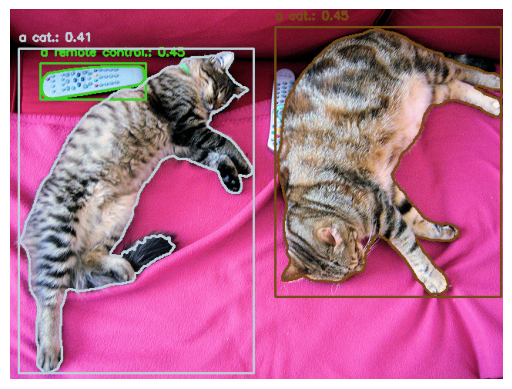
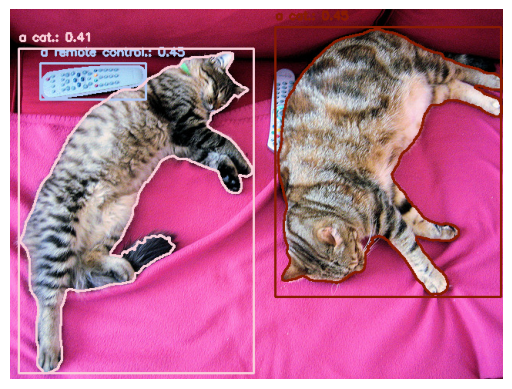
up

diff --git a/src/models/grounding_sam.py b/src/models/grounding_sam.py
@@ -1,3 +1,5 @@
+from seg import get_random_color
+
 import random
 from dataclasses import dataclass
 from typing import Any, Dict, List, Optional, Tuple, Union
@@ -84,229 +86,6 @@ def plot_detections(image: Union[Image.Image, np.ndarray], detections: List[Dete
     plt.show()
 
 
-def random_named_css_colors(num_colors: int) -> List[str]:
-    """
-    Returns a list of randomly selected named CSS colors.
-
-    Args:
-    - num_colors (int): Number of random colors to generate.
-
-    Returns:
-    - list: List of randomly selected named CSS colors.
-    """
-    # List of named CSS colors
-    named_css_colors = [
-        "aliceblue",
-        "antiquewhite",
-        "aqua",
-        "aquamarine",
-        "azure",
-        "beige",
-        "bisque",
-        "black",
-        "blanchedalmond",
-        "blue",
-        "blueviolet",
-        "brown",
-        "burlywood",
-        "cadetblue",
-        "chartreuse",
-        "chocolate",
-        "coral",
-        "cornflowerblue",
-        "cornsilk",
-        "crimson",
-        "cyan",
-        "darkblue",
-        "darkcyan",
-        "darkgoldenrod",
-        "darkgray",
-        "darkgreen",
-        "darkgrey",
-        "darkkhaki",
-        "darkmagenta",
-        "darkolivegreen",
-        "darkorange",
-        "darkorchid",
-        "darkred",
-        "darksalmon",
-        "darkseagreen",
-        "darkslateblue",
-        "darkslategray",
-        "darkslategrey",
-        "darkturquoise",
-        "darkviolet",
-        "deeppink",
-        "deepskyblue",
-        "dimgray",
-        "dimgrey",
-        "dodgerblue",
-        "firebrick",
-        "floralwhite",
-        "forestgreen",
-        "fuchsia",
-        "gainsboro",
-        "ghostwhite",
-        "gold",
-        "goldenrod",
-        "gray",
-        "green",
-        "greenyellow",
-        "grey",
-        "honeydew",
-        "hotpink",
-        "indianred",
-        "indigo",
-        "ivory",
-        "khaki",
-        "lavender",
-        "lavenderblush",
-        "lawngreen",
-        "lemonchiffon",
-        "lightblue",
-        "lightcoral",
-        "lightcyan",
-        "lightgoldenrodyellow",
-        "lightgray",
-        "lightgreen",
-        "lightgrey",
-        "lightpink",
-        "lightsalmon",
-        "lightseagreen",
-        "lightskyblue",
-        "lightslategray",
-        "lightslategrey",
-        "lightsteelblue",
-        "lightyellow",
-        "lime",
-        "limegreen",
-        "linen",
-        "magenta",
-        "maroon",
-        "mediumaquamarine",
-        "mediumblue",
-        "mediumorchid",
-        "mediumpurple",
-        "mediumseagreen",
-        "mediumslateblue",
-        "mediumspringgreen",
-        "mediumturquoise",
-        "mediumvioletred",
-        "midnightblue",
-        "mintcream",
-        "mistyrose",
-        "moccasin",
-        "navajowhite",
-        "navy",
-        "oldlace",
-        "olive",
-        "olivedrab",
-        "orange",
-        "orangered",
-        "orchid",
-        "palegoldenrod",
-        "palegreen",
-        "paleturquoise",
-        "palevioletred",
-        "papayawhip",
-        "peachpuff",
-        "peru",
-        "pink",
-        "plum",
-        "powderblue",
-        "purple",
-        "rebeccapurple",
-        "red",
-        "rosybrown",
-        "royalblue",
-        "saddlebrown",
-        "salmon",
-        "sandybrown",
-        "seagreen",
-        "seashell",
-        "sienna",
-        "silver",
-        "skyblue",
-        "slateblue",
-        "slategray",
-        "slategrey",
-        "snow",
-        "springgreen",
-        "steelblue",
-        "tan",
-        "teal",
-        "thistle",
-        "tomato",
-        "turquoise",
-        "violet",
-        "wheat",
-        "white",
-        "whitesmoke",
-        "yellow",
-        "yellowgreen",
-    ]
-
-    # Sample random named CSS colors
-    return random.sample(named_css_colors, min(num_colors, len(named_css_colors)))
-
-
-def plot_detections_plotly(image: np.ndarray, detections: List[DetectionResult], class_colors: Optional[Dict[str, str]] = None) -> None:
-    # If class_colors is not provided, generate random colors for each class
-    if class_colors is None:
-        num_detections = len(detections)
-        colors = random_named_css_colors(num_detections)
-        class_colors = {}
-        for i in range(num_detections):
-            class_colors[i] = colors[i]
-
-    fig = px.imshow(image)
-
-    # Add bounding boxes
-    shapes = []
-    annotations = []
-    for idx, detection in enumerate(detections):
-        label = detection.label
-        box = detection.box
-        score = detection.score
-        mask = detection.mask
-
-        polygon = mask_to_polygon(mask)
-
-        fig.add_trace(go.Scatter(x=[point[0] for point in polygon] + [polygon[0][0]], y=[point[1] for point in polygon] + [polygon[0][1]], mode="lines", line=dict(color=class_colors[idx], width=2), fill="toself", name=f"{label}: {score:.2f}"))
-
-        xmin, ymin, xmax, ymax = box.xyxy
-        shape = [dict(type="rect", xref="x", yref="y", x0=xmin, y0=ymin, x1=xmax, y1=ymax, line=dict(color=class_colors[idx]))]
-        annotation = [
-            dict(
-                x=(xmin + xmax) // 2,
-                y=(ymin + ymax) // 2,
-                xref="x",
-                yref="y",
-                text=f"{label}: {score:.2f}",
-            )
-        ]
-
-        shapes.append(shape)
-        annotations.append(annotation)
-
-    # Update layout
-    button_shapes = [dict(label="None", method="relayout", args=["shapes", []])]
-    button_shapes = button_shapes + [dict(label=f"Detection {idx+1}", method="relayout", args=["shapes", shape]) for idx, shape in enumerate(shapes)]
-    button_shapes = button_shapes + [dict(label="All", method="relayout", args=["shapes", sum(shapes, [])])]
-
-    fig.update_layout(
-        xaxis=dict(visible=False),
-        yaxis=dict(visible=False),
-        # margin=dict(l=0, r=0, t=0, b=0),
-        showlegend=True,
-        updatemenus=[dict(type="buttons", direction="up", buttons=button_shapes)],
-        legend=dict(orientation="h", yanchor="bottom", y=1.02, xanchor="right", x=1),
-    )
-
-    # Show plot
-    fig.show()
-
-
 """
 other utils
 """
@@ -346,16 +125,6 @@ def polygon_to_mask(polygon: List[Tuple[int, int]], image_shape: Tuple[int, int]
     cv2.fillPoly(mask, [pts], color=(255,))
 
     return mask
-
-
-def load_image(image_str: str) -> Image.Image:
-    if image_str.startswith("http"):
-        image = Image.open(requests.get(image_str, stream=True).raw).convert("RGB")
-    else:
-        image = Image.open(image_str).convert("RGB")
-
-    return image
-
 
 def get_boxes(results: DetectionResult) -> List[List[List[float]]]:
     boxes = []
@@ -424,9 +193,16 @@ def segment(image: Image.Image, detection_results: List[Dict[str, Any]], polygon
     return detection_results
 
 
-def grounded_segmentation(image: Union[Image.Image, str], labels: List[str], threshold: float = 0.3, polygon_refinement: bool = False, detector_id: Optional[str] = None, segmenter_id: Optional[str] = None) -> Tuple[np.ndarray, List[DetectionResult]]:
-    if isinstance(image, str):
-        image = load_image(image)
+def grounded_segmentation(image: Union[Image.Image, str], labels: List[str], threshold: float = 0.3, polygon_refinement: bool = False) -> Tuple[np.ndarray, List[DetectionResult]]:
+
+
+
+    detector_id = "IDEA-Research/grounding-dino-tiny"
+    # https://huggingface.co/facebook/sam2-hiera-tiny
+    # https://huggingface.co/facebook/sam2-hiera-small
+    # https://huggingface.co/facebook/sam2-hiera-base-plus
+    # https://huggingface.co/facebook/sam2-hiera-large
+    segmenter_id = "facebook/sam-vit-base"
 
     detections = detect(image, labels, threshold, detector_id)
     detections = segment(image, detections, polygon_refinement, segmenter_id)
@@ -434,17 +210,15 @@ def grounded_segmentation(image: Union[Image.Image, str], labels: List[str], thr
     return np.array(image), detections
 
 
-image_url = "http://images.cocodataset.org/val2017/000000039769.jpg"
+
+
+
 labels = ["a cat.", "a remote control."]
 threshold = 0.3
 
-detector_id = "IDEA-Research/grounding-dino-tiny"
-# https://huggingface.co/facebook/sam2-hiera-tiny
-# https://huggingface.co/facebook/sam2-hiera-small
-# https://huggingface.co/facebook/sam2-hiera-base-plus
-# https://huggingface.co/facebook/sam2-hiera-large
-segmenter_id = "facebook/sam-vit-base"
+url = "http://images.cocodataset.org/val2017/000000039769.jpg"
+img = Image.open(requests.get(url, stream=True).raw)
 
-image_array, detections = grounded_segmentation(image=image_url, labels=labels, threshold=threshold, polygon_refinement=True, detector_id=detector_id, segmenter_id=segmenter_id)
+image_array, detections = grounded_segmentation(image=img, labels=labels, threshold=threshold, polygon_refinement=True)
 
 plot_detections(image_array, detections, "cute_cats.png")

diff --git a/src/models/seg.py b/src/models/seg.py
@@ -213,10 +213,10 @@ def get_groundingsam_results(img: Image.Image, labels: list[str]):
     pass
 
 
-labels = ["cat", "remote control"]
+# labels = ["cat", "remote control"]
 
-url = "http://images.cocodataset.org/val2017/000000039769.jpg"
-img = Image.open(requests.get(url, stream=True).raw)
+# url = "http://images.cocodataset.org/val2017/000000039769.jpg"
+# img = Image.open(requests.get(url, stream=True).raw)
 
-results = get_clipseg_results(img, labels)
-plot_results(img, results)
+# results = get_clipseg_results(img, labels)
+# plot_results(img, results)
